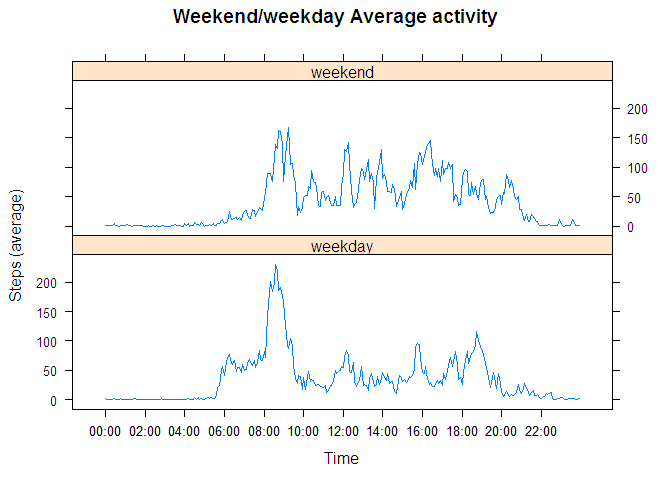
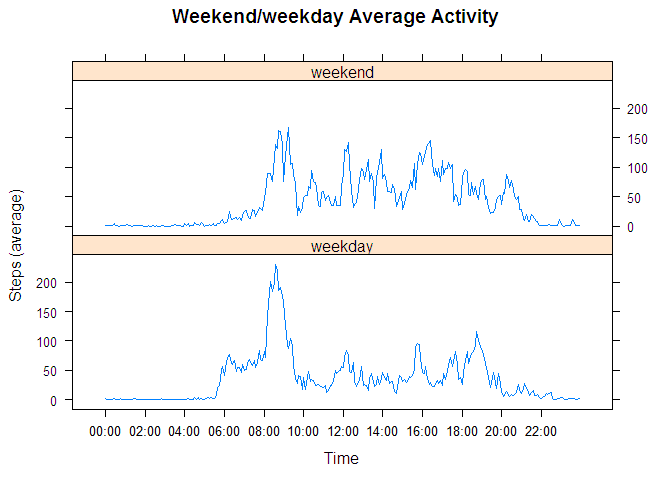
a typo

Changed region(s): [[0.25, 0.0, 0.75, 0.0625]]

diff --git a/PA1_template.html b/PA1_template.html
@@ -165,9 +165,9 @@ wvw$time &lt;- formatC(wvw$interval, flag = &quot;0&quot;, big.mark = &quot;:&qu
 wvw$ticks &lt;- wvw$interval%/%100 * 60 + wvw$interval%%100
 xyplot(ave_steps ~ ticks | dayofweek, data = wvw, type = 'l',
        xlab = &quot;Time&quot;, ylab = &quot;Steps (average)&quot;,
-       main = &quot;Weekend/weekday Average activity&quot;, layout = c(1,2), scales = list(
+       main = &quot;Weekend/weekday Average Activity&quot;, layout = c(1,2), scales = list(
              x=list(at=wvw$ticks[wvw$ticks%%120==0], labels=wvw$time[wvw$ticks%%120==0])))</code></pre>
[2 lines of base64/hex data omitted]
 </div>
 
 

diff --git a/PA1_template.md b/PA1_template.md
@@ -155,7 +155,7 @@ wvw$time <- formatC(wvw$interval, flag = "0", big.mark = ":", big.interval = 2, 
 wvw$ticks <- wvw$interval%/%100 * 60 + wvw$interval%%100
 xyplot(ave_steps ~ ticks | dayofweek, data = wvw, type = 'l',
        xlab = "Time", ylab = "Steps (average)",
-       main = "Weekend/weekday Average activity", layout = c(1,2), scales = list(
+       main = "Weekend/weekday Average Activity", layout = c(1,2), scales = list(
              x=list(at=wvw$ticks[wvw$ticks%%120==0], labels=wvw$time[wvw$ticks%%120==0])))
 ```
 
